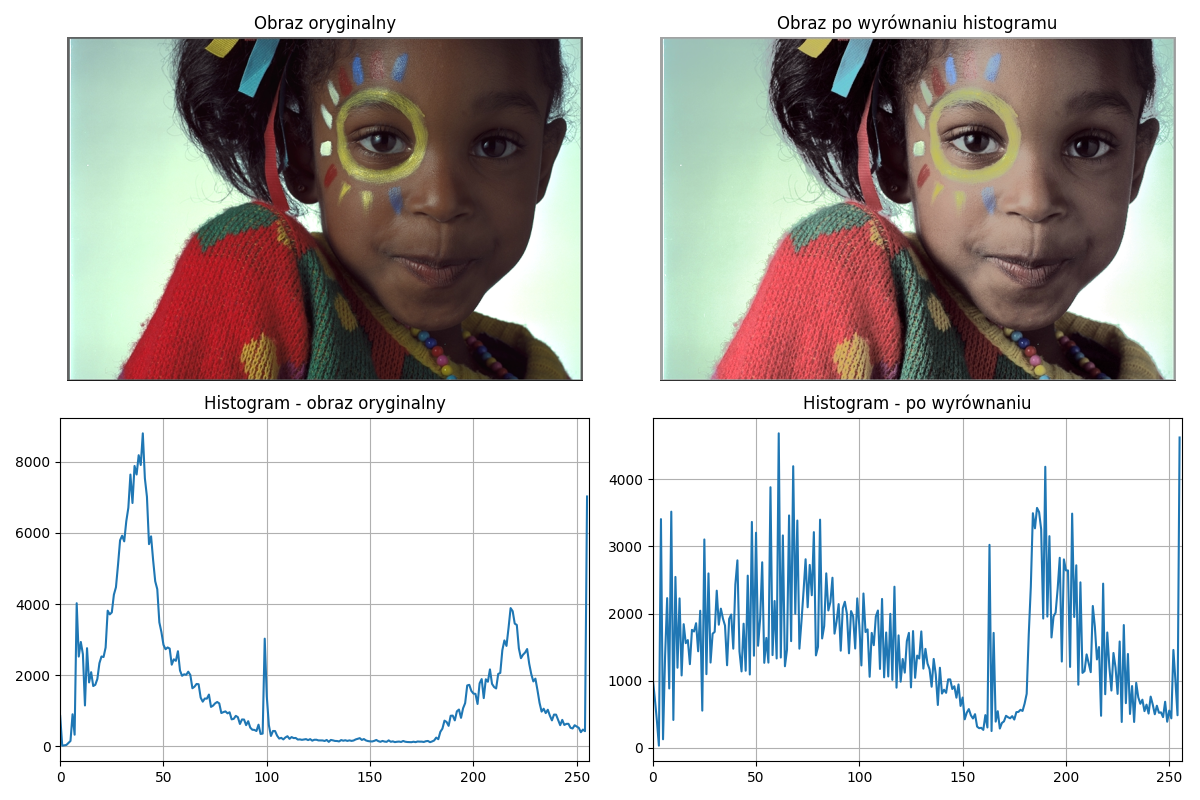
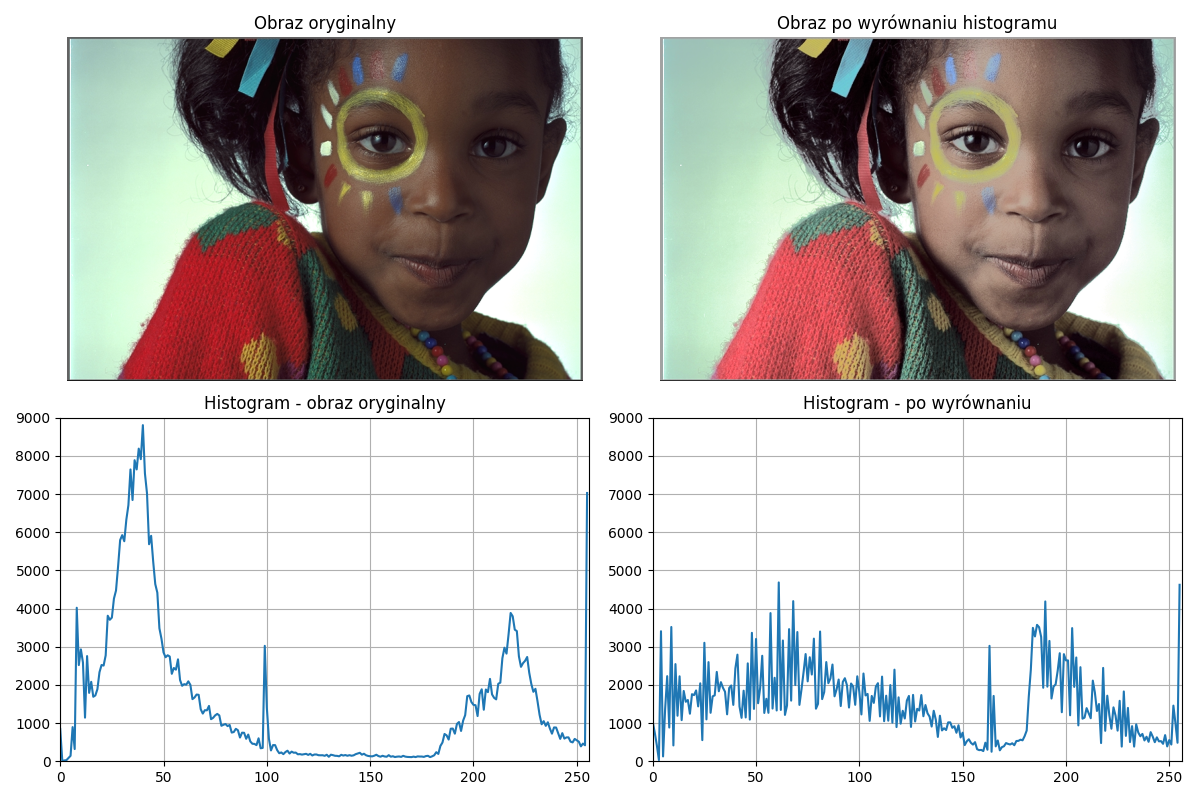
modified zad2, zad3 and added all.ipynb with the whole code

diff --git a/lab4/zad3.py b/lab4/zad3.py
@@ -39,7 +39,7 @@ axes[0].axis('off')
 
 for i, weight in enumerate(weights):
     img_gauss = cv2.GaussianBlur(img_original, (3, 3), 0)
-    img_laplace = cv2.Laplacian(img_original, cv2.CV_64F)
+    img_laplace = cv2.Laplacian(img_gauss, cv2.CV_64F)
     image = np.asarray(img_original, np.float64)
     img_out = cv2.addWeighted(image, 1, img_laplace, weight, 0)
     img_out = np.clip(img_out, 0, 255).astype(np.uint8)
@@ -53,7 +53,7 @@ plt.tight_layout()
 plt.savefig("./images/zad3_wyostrzone_gauss.png")
 plt.show()
 
-best_weight = -1.5
+best_weight = -3
 
 img_laplace = cv2.Laplacian(img_original, cv2.CV_64F)
 img_gauss = cv2.GaussianBlur(img_original, (3, 3), 0)

diff --git a/lab4/zad2.py b/lab4/zad2.py
@@ -33,12 +33,15 @@ hist_equalized = hist_equalized.flatten()
 axes[1, 0].plot(hist_original)
 axes[1, 0].set_title("Histogram - obraz oryginalny")
 axes[1, 0].set_xlim([0, 256])
+axes[1, 0].set_ylim([0, 9000])
 axes[1, 0].grid(True)
 
 axes[1, 1].plot(hist_equalized)
 axes[1, 1].set_title("Histogram - po wyrównaniu")
 axes[1, 1].set_xlim([0, 256])
+axes[1, 1].set_ylim([0, 9000])
 axes[1, 1].grid(True)
+
 
 plt.tight_layout()
 plt.savefig("./images/zad2_histogramy.png")
